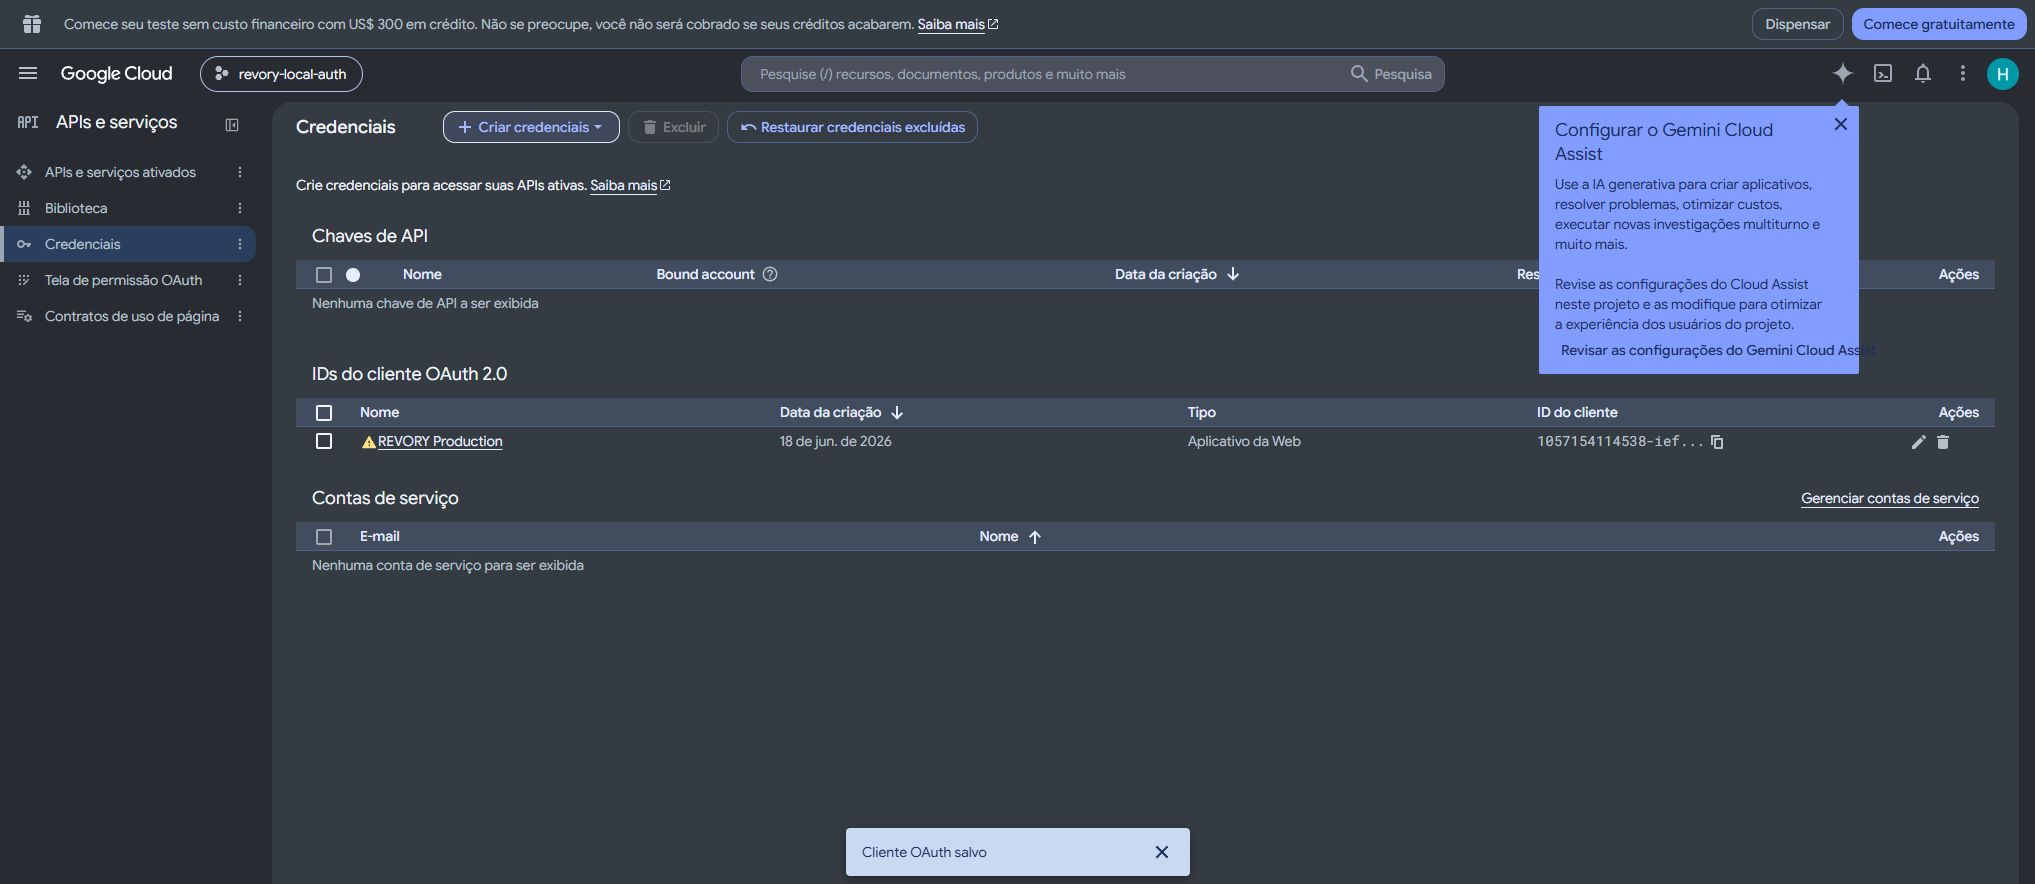
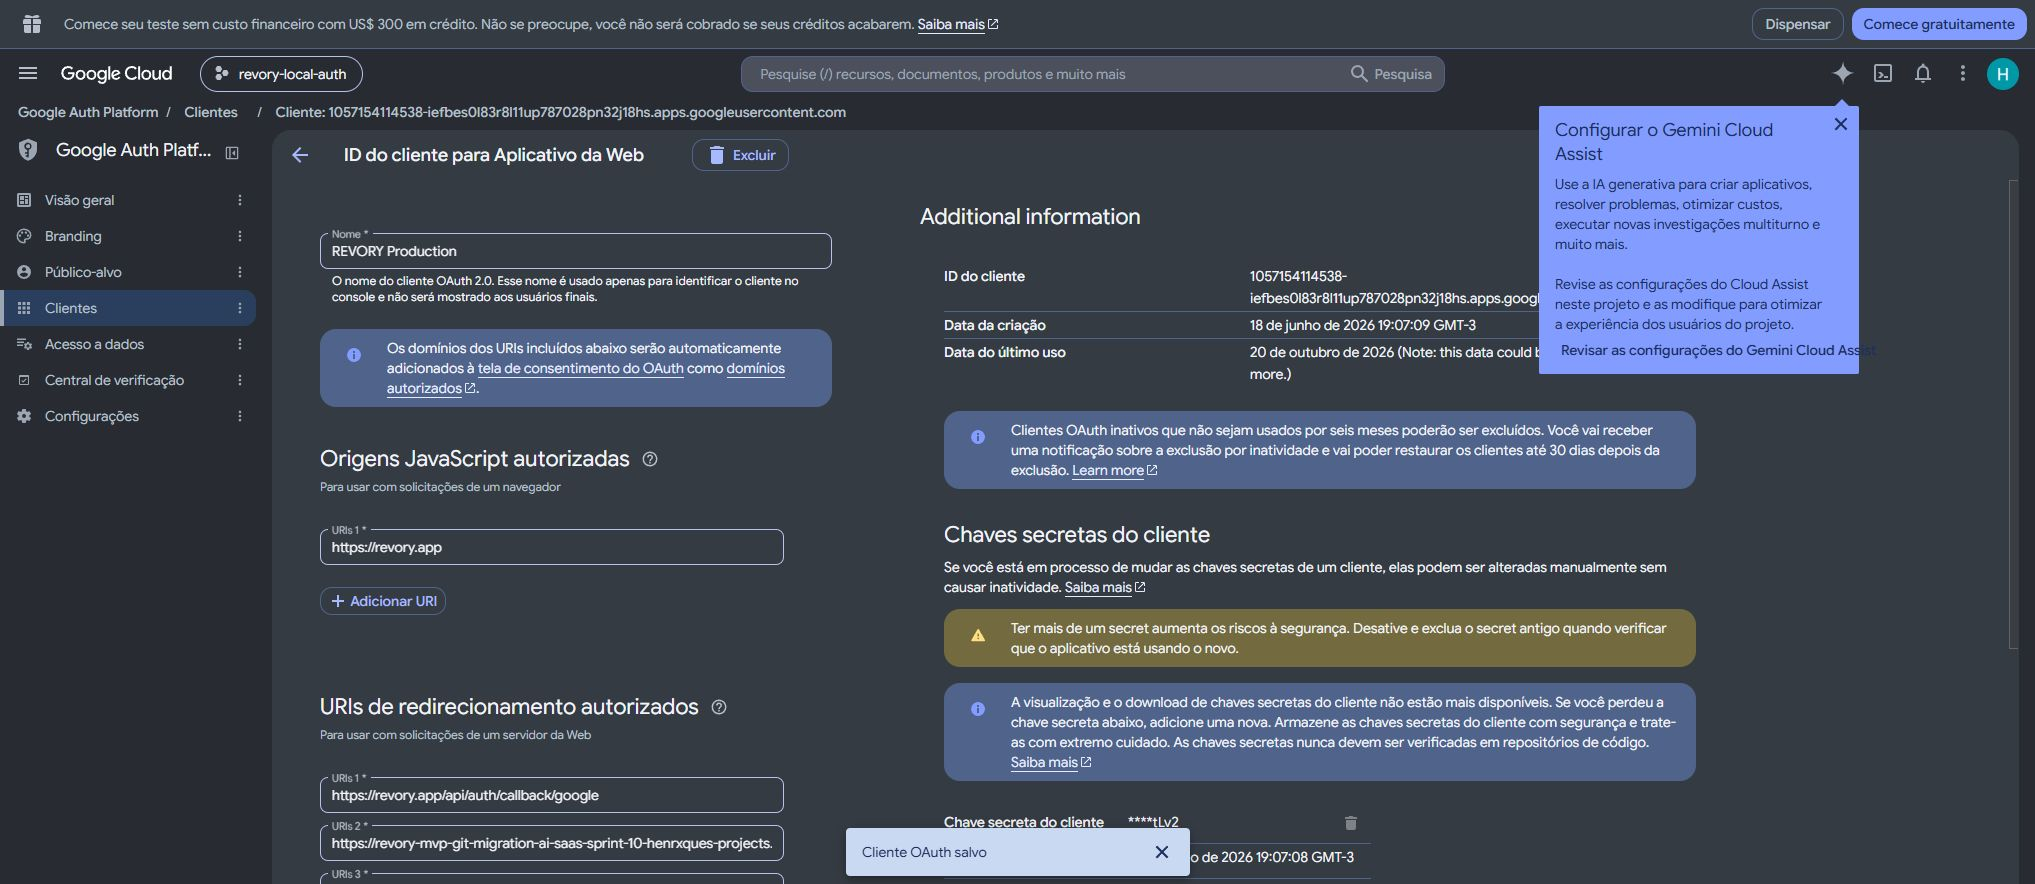
Record scheduled dispatch and delivered remote email proof

diff --git a/docs/qa/monitor-remote/README.md b/docs/qa/monitor-remote/README.md
@@ -13,11 +13,13 @@ Este registro descreve testes técnicos do proprietário. Não representa client
 - URLs de retorno do Preview ajustadas somente no branch aprovado. Callback Google adicionado após confirmação específica do fundador, preservando produção e callbacks Sprint 10/11. Configuração salva; login Google neste novo domínio ainda requer seu percurso próprio.
 - Checkout remoto de US$399 em sandbox completado pelo navegador, invoice paga em modo test e assinatura ACTIVE no banco isolado. Webhook nativo sem relay CLI; evento `checkout.session.completed` sem entregas pendentes. Não foi semeado acesso pago no banco.
 - Agendador próprio integrado por PR #9, com diagnósticos sem segredos nos PRs #10/#11. Chamada manual 39476373537 passou e evento natural `schedule` 39508129704 passou. Agenda habilitada, no máximo uma chamada programada por hora; o horário real do GitHub pode atrasar. Nenhuma leitura de fonte foi autorizada ainda.
+- Botão `Send test email` publicado e usado no app remoto: Resend aceitou um e-mail para `henry@revory.app`, outbox `SENT`, uma tentativa e ID do provedor preservado. Repetição pelo navegador manteve um aviso/uma tentativa. Após login/MFA do proprietário, o painel confirmou **Delivered**, com o mesmo ID registrado no outbox. Não criou schedule, leitura ou finding. O app informa aceite pelo provedor; posicionamento na caixa de entrada não foi comprovado.
+- Teste descartável específico de e-mail e regressão do Monitor passaram, além de tipos/lint e fronteiras HTTPS públicas. Login e saúde de produção permaneceram preservados; a conferência mais recente de produção retornou 200/ok/reachable.
 - OpenAI: uma chamada real Chat Completions, 11 tokens de entrada e 1 de saída, sem retry, sem compra de créditos ou mudança de recarga. Estimativa de custo US$0,0000015 conforme tarifa do modelo. Chave de um dia, somente Chat Completions: Request, revogada imediatamente após a chamada e removida do cofre de operação. Demais chaves existentes preservadas.
 
 ## Pendências — não contar como concluídas
 
-- Envio de aviso real pelo outbox Monitor/Resend e comprovação do estado de entrega.
+- O percurso de alerta disparado por dados reais de uma comparação continua dependente da prova de fontes abaixo. O teste de transporte/entrega pelo Resend passou; não equivale a esse percurso completo.
 - Usage/Costs OpenAI não vazios comparados com ledger equivalente: a geração não substitui esse teste. Janela UTC de 20/10–21/10, mais lag mínimo de 24h, só fica elegível em 22/10 às 00:00 UTC; a publicação da fonte ainda pode atrasar.
 - Stripe live bloqueado: credencial anterior rejeitada; proprietário está localizando a conta correta. Não configurar a sessão “New business” como a conta comercial do REVORY sem verificação.
 
@@ -32,5 +34,10 @@ Este registro descreve testes técnicos do proprietário. Não representa client
 - `native-checkout.json`: pagamento sandbox e estado canônico remoto.
 - `domain-access.json`: exceção limitada ao alias de homologação.
 - `scheduler.json`: eventos manual e natural do GitHub Actions.
+- `email-test.json`: envio real, ID do provedor e repetição sem duplicação; estado final de entrega separado.
+- `resend-delivered.png`: evento Delivered do mesmo e-mail no painel autenticado do provedor.
+- `public-http-boundary.json`: saúde pública e rejeição de job sem Bearer, e-mail sem sessão, cobrança antiga e assinatura de webhook inválida.
+
+Com lag de 24h, a janela OpenAI fica elegível em **21/10 às 21h de Brasília** (22/10 00:00 UTC), sujeita ao atraso de publicação da fonte. Criar a próxima chave temporária de leitura apenas quando a janela estiver elegível; a chave de geração já foi revogada. Não declarar exclusividade do projeto padrão ou completude do ledger sem revisar os dados efetivamente retornados.
 
 Os PRs [#9](https://github.com/Henrxque/revory-mvp/pull/9), [#10](https://github.com/Henrxque/revory-mvp/pull/10) e [#11](https://github.com/Henrxque/revory-mvp/pull/11) alteram somente o dispatcher de homologação e seus diagnósticos. O branch completo do produto não foi integrado à produção. A agenda usa segredo e flag próprios, distintos de produção. `SENT` no outbox significa aceite pelo provedor de e-mail; entrega ao destinatário exige evidência adicional.
